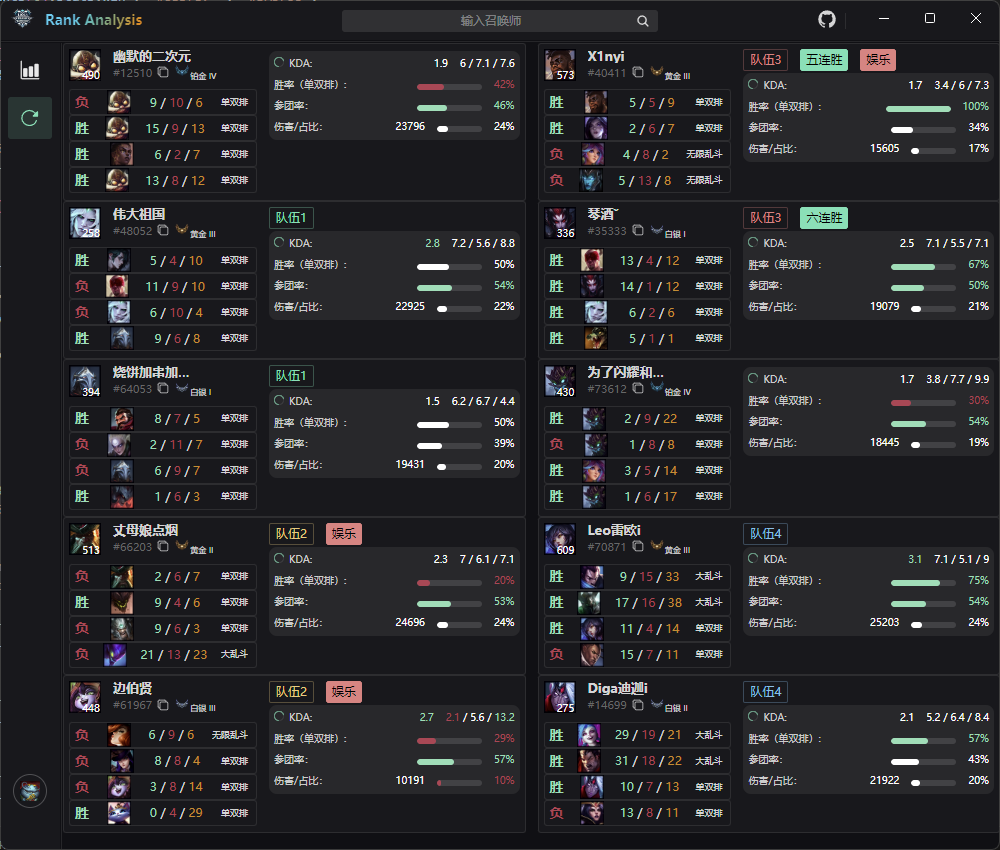
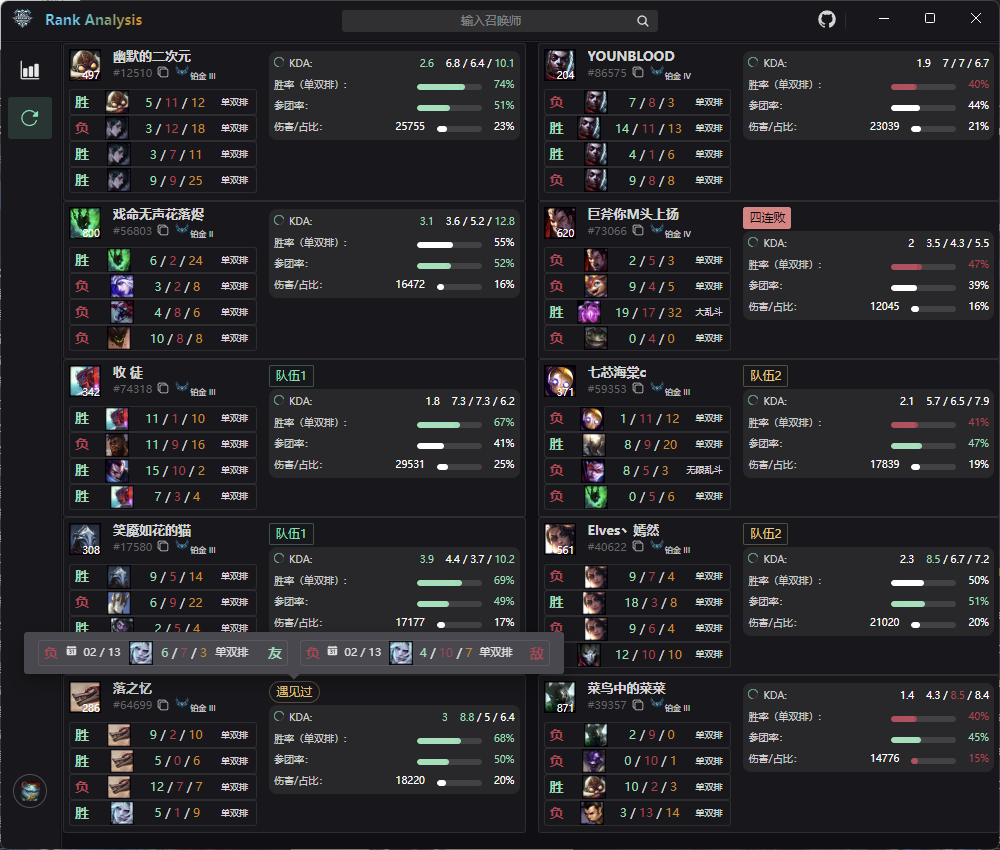
更新文档

diff --git a/README.md b/README.md
@@ -35,7 +35,8 @@
 
 ### 对局分析
 
-- 提供详细的战绩数据分析，帮助玩家更好地理解对局表现。
+1. 预先组队标记
+2. 遇见过的玩家标记
 
 ---
 
